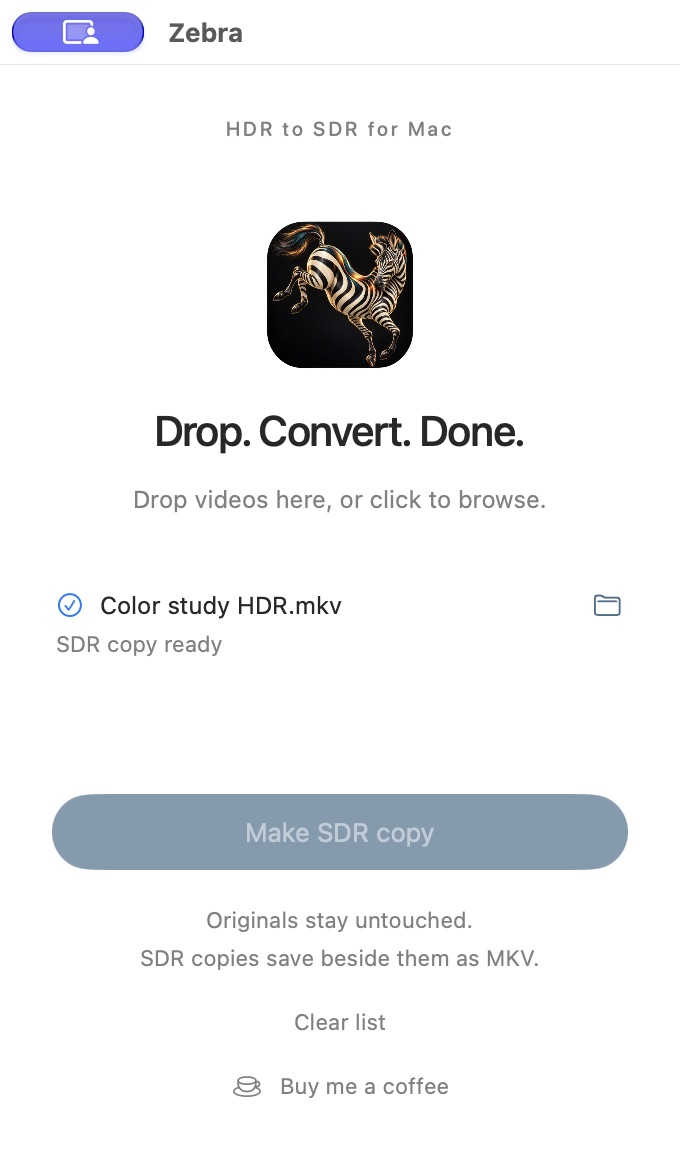
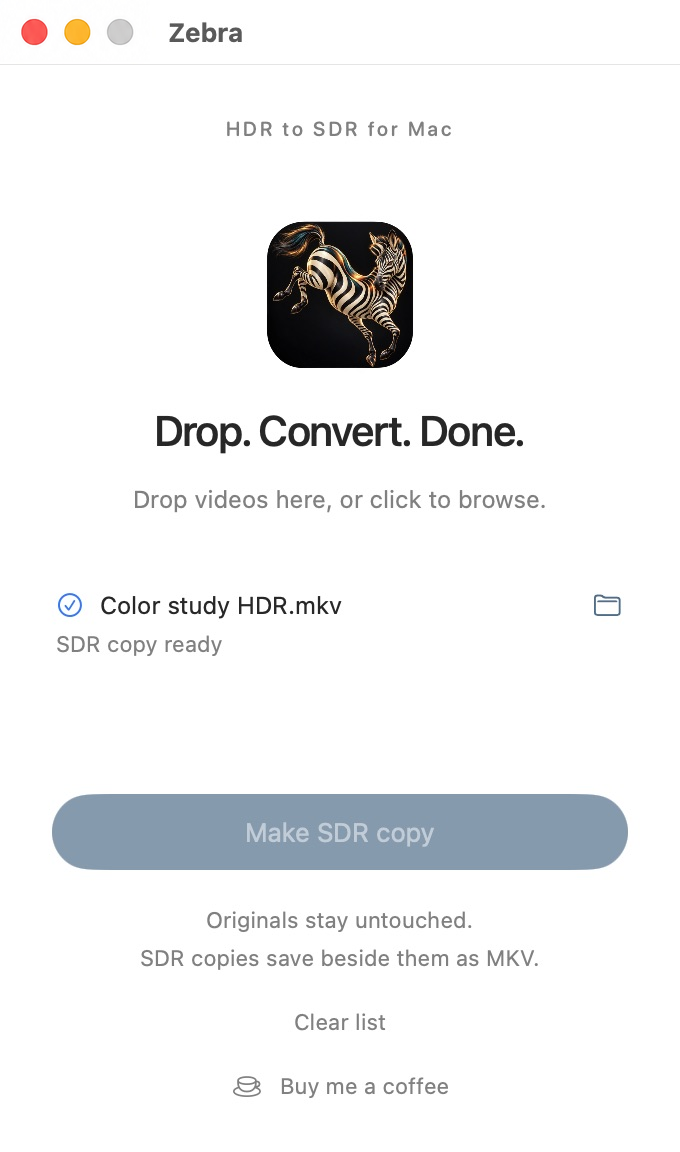
Restore window controls in Zebra showcase captures

Changed region(s): [[0.0, 0.0, 0.2162, 0.0625]]

diff --git a/docs/screenshots/README.md b/docs/screenshots/README.md
@@ -1,9 +1,14 @@
 # Screenshot sources
 
-Actual Zebra 0.2.0 window captured on October 26, 2026. The purple title-bar indicator is the macOS screen-sharing indicator.
+`zebra-ready.png` and `zebra-complete.png` show the actual Zebra 0.2.0 app,
+captured October 31, 2026 using a generated three-second 1920 × 1080
+PQ/BT.2020 test clip. The converted output was verified as Rec.709 SDR.
+No personal media is pictured.
 
-October 31, 2026: `zebra-ready.png` and `zebra-complete.png` are unretouched
-680 × 1152 captures of the actual Zebra 0.2.0 app. A generated three-second
-1920 × 1080 PQ/BT.2020 test clip was added and converted through the UI. The
-output was verified as 1920 × 1080 Rec.709 SDR. No personal media is pictured.
-The purple title-bar indicator belongs to macOS screen sharing.
+The 150 × 62 pixel top-left title-bar area was retouched to replace the macOS
+screen-sharing indicator with window controls (including the disabled gray
+zoom button). This patch was made with image generation and composited onto
+the original captures. Everything outside that patch is pixel-identical to
+the original app capture. Both images remain 680 × 1152.
+
+The older `zebra.jpg` is an October 26 capture with the screen-sharing indicator.
